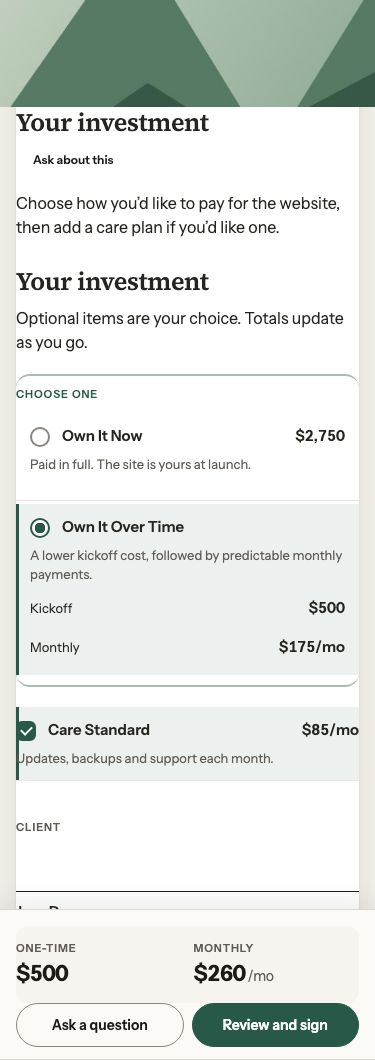
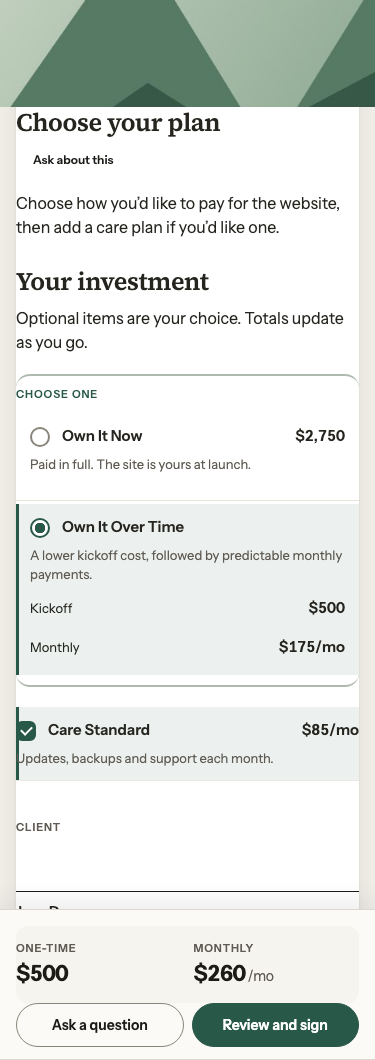
Fix Stage 4 browser assertions and section question layout

Changed region(s): [[0.0293, 0.0934, 0.5867, 0.1245]]

diff --git a/e2e/ink-clay-client.spec.ts b/e2e/ink-clay-client.spec.ts
@@ -97,7 +97,7 @@ async function clientFixture(page: Page) {
         { type: "page_break", id: "investment-page" },
         {
           type: "heading",
-          text: "Your investment",
+          text: "Choose your plan",
           level: 1,
           id: "investment",
         },
@@ -268,7 +268,7 @@ async function clientFixture(page: Page) {
   };
 }
 
-for (const width of [1440, 768, 375]) {
+for (const width of [1440, 1024, 768, 375]) {
   test(`tenant client screens, controls and flows are accessible at ${width}px`, async ({
     page,
   }) => {
@@ -293,6 +293,22 @@ for (const width of [1440, 768, 375]) {
       "position",
       width === 1440 ? "sticky" : "fixed",
     );
+    await expect(
+      page.getByRole("heading", { name: "Your investment", exact: true }),
+    ).toHaveCount(1);
+    if (width === 1440 || width === 1024) {
+      const ask = page.getByRole(width === 1440 ? "link" : "button", {
+        name: "Ask about this: Choose your plan",
+      });
+      await expect(ask).toBeVisible();
+      expect(
+        await ask.evaluate((el) => {
+          const range = document.createRange();
+          range.selectNodeContents(el);
+          return range.getClientRects().length;
+        }),
+      ).toBe(1);
+    }
     const sign = choices.getByRole("button", {
       name: "Review and sign",
       exact: true,
@@ -519,7 +535,11 @@ test("every email template preserves its content and uses accessible light and d
           brand: style(".email-card").borderTopColor,
           title: style(".email-title").color,
           headingFont: style(".email-title").fontFamily,
-          bodyFont: style(".email-body").fontFamily,
+          // Chromium serializes the same Apple system fallback differently on Linux.
+          bodyFont: style(".email-body").fontFamily.replace(
+            /, BlinkMacSystemFont,|, "system-ui",/,
+            ", system-ui,",
+          ),
           button: style(".email-action").backgroundColor,
           buttonText: style(".email-cta").color,
         };

diff --git a/src/components/client-page-sheets.tsx b/src/components/client-page-sheets.tsx
@@ -527,7 +527,7 @@ const sheetCss = `
 .client-interactive-card{cursor:pointer}
 .client-sheet-input:focus-visible + .print-selection{outline:3px solid var(--client-accent-text);outline-offset:3px}
 .client-sheet-input:disabled{cursor:wait}
-.client-section-question{position:absolute;inset-inline-end:2px;display:grid;place-items:center;text-align:center;width:52px;min-height:calc(44px / var(--client-sheet-scale,1));padding:2px;border:0;border-radius:var(--radius-button,9999px);background:transparent;color:var(--client-accent-text,#365c4a);font:600 11px/1.2 var(--font-ui,"Instrument Sans"),sans-serif;cursor:pointer;text-decoration:underline;text-underline-offset:2px}
+.client-section-question{position:absolute;inset-inline-end:2px;display:grid;place-items:center;text-align:center;inline-size:max-content;min-height:calc(44px / var(--client-sheet-scale,1));padding:2px 4px;white-space:nowrap;border:0;border-radius:var(--radius-button,9999px);background:transparent;color:var(--client-accent-text,#365c4a);font:600 11px/1.2 var(--font-ui,"Instrument Sans"),sans-serif;cursor:pointer;text-decoration:underline;text-underline-offset:2px}
 .client-section-question:hover{background:var(--client-selection)}.client-section-question:focus-visible{outline:2px solid var(--client-accent-text);outline-offset:1px}
 /* These rules apply only after pagination. Preserve every shared print box. */
 .client-pages-root.proposal-typography.proposal-typography .print-choice-group{background:var(--paper);border-color:var(--client-frame)}

diff --git a/e2e/billing-confirmations.spec.ts b/e2e/billing-confirmations.spec.ts
@@ -112,16 +112,21 @@ test("verified billing: mode-specific Checkout, immediate receipt, bounded retur
               name: /Continue to secure card setup — no charge today/,
             }),
           ).toBeVisible();
-        } else
+        } else {
+          const paymentToday = page.locator(".flow-payment-today");
           await expect(
-            page.getByText(
-              `You’ll be charged ${formatMoney(
+            paymentToday.getByText("First payment today", { exact: true }),
+          ).toBeVisible();
+          await expect(
+            paymentToday.getByText(
+              formatMoney(
                 f.lines.reduce((sum, l) => sum + l.amount * l.qty, 0),
                 f.p.currency,
-              )} today.`,
+              ),
               { exact: true },
             ),
           ).toBeVisible();
+        }
         await shot(`checkout-${mode}`, width, theme);
         await record(`record-waiting-${mode}`, width, theme);
         await expect(

diff --git a/e2e/pill-controls.spec.ts b/e2e/pill-controls.spec.ts
@@ -164,6 +164,7 @@ const buttonShapeExclusions = [
   ".studio-account-trigger",
   ".color-picker-trigger",
   ".client-choice-target",
+  ".preview-size.segmented button",
 ].join(",");
 async function audit(page: Page) {
   const controls = await page
@@ -342,6 +343,11 @@ for (const width of [1440, 375])
     await page.setViewportSize({ width, height: 1000 });
     await page.goto(`/p/${f.draft.id}?preview=1`);
     await expect(page.locator(".client-flow")).toBeVisible();
+    const previewWidth = page.getByRole("group", { name: "Preview width" });
+    for (const label of ["Desktop width", "Phone width"])
+      await expect(
+        previewWidth.getByRole("button", { name: label, exact: true }),
+      ).toHaveCSS("border-radius", "10px");
     await audit(page);
     await page
       .getByRole("button", { name: "Review and sign", exact: true })
